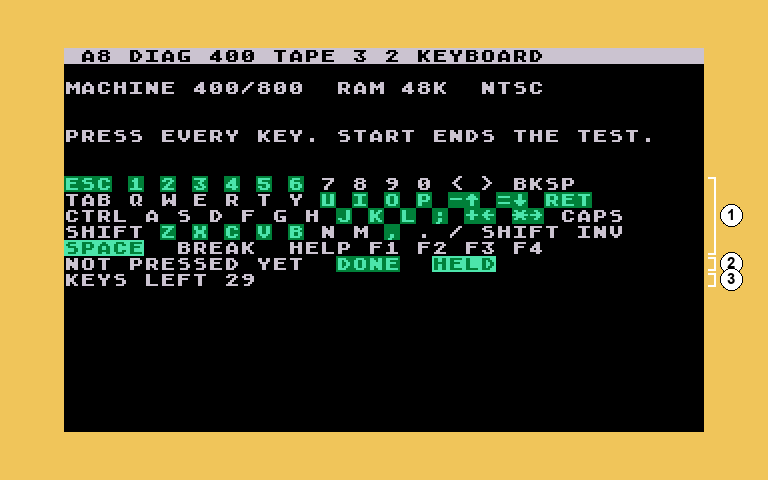
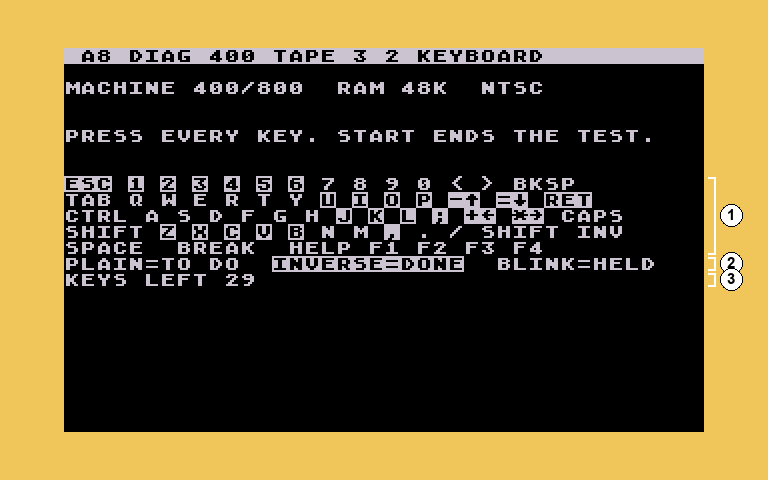
System tapes: START at the end runs the tests again
The final results now wait for START instead of moving on or ending.
On tapes without a menu (400 tapes 02-05, diag-controls), START runs
the tape's tests again from the first, with fresh results. On the menu
tapes it returns to the menu. report.asm's pass doesn't go on by itself
while ENDING is set (RESTART builds only, so tape 1 and the burn-ins are
unchanged).

Also new keyboard pictures for the guide (plain-text key states).

diff --git a/docs/USER-GUIDE.md b/docs/USER-GUIDE.md
@@ -154,7 +154,10 @@ means the tape didn't load correctly into RAM (a bad image checksum): see
 | SELECT | play the beep code again |
 | OPTION | switch between the text screen and full-screen flashes (the whole screen flashes with the code: easier to see when the picture is garbled) |
 
-A test that passes moves on by itself after about 2 seconds. After the
+A test that passes moves on by itself after about 2 seconds. At the end of a
+tape (except the RAM tape and the burn-ins) the results stay up: START runs
+that tape's tests again from the first one, or goes back to the menu on the
+16K and 48K tapes. After the
 opening screen check, no question has a time limit: every question waits
 until you answer it, with a purple border.
 
